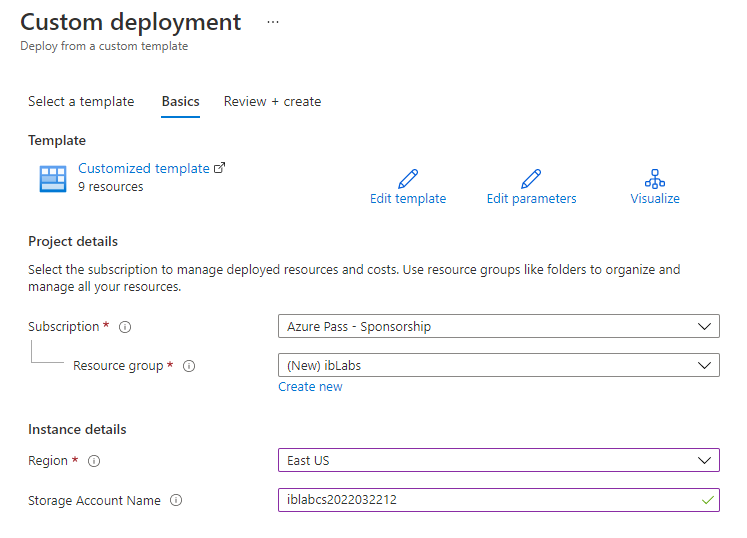
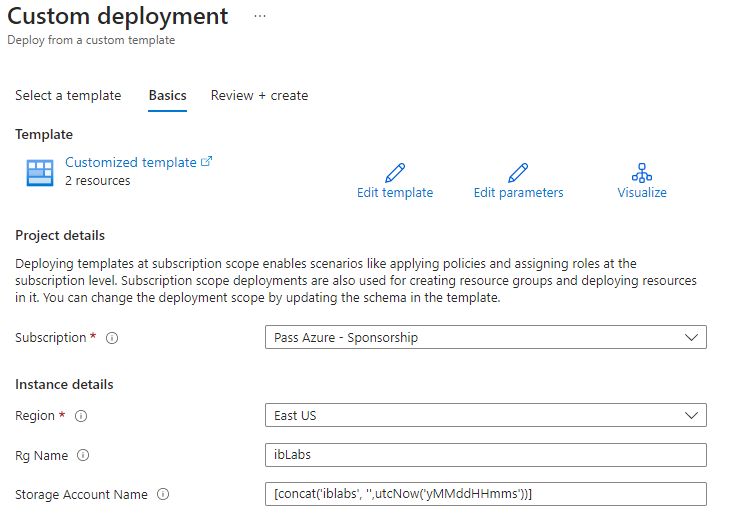
Changement  procdure lab ib Azure : le template fourni crée le Resource Group (permet de lui donner le nom "ibLabs" par défaut)

diff --git a/extra/ibAzureLabs.md b/extra/ibAzureLabs.md
@@ -29,18 +29,18 @@ Il sera donc plus efficace d'avoir votre portail Azure dans cette même langue a
 [(Retour au Sommaire)](#objectifs)  
 # Procédure 1: Créer quelques ressources génériques dans Azure
 1. Cliquez (préférez ouvrir dans un autre onglet pour ne pas quitter le présent document) directement sur le bouton ci-dessous afin d'initialiser le déploiement des ressources dans Azure :  
-[![Deployer Dans Azure](https://aka.ms/deploytoazurebutton)](https://portal.azure.com/#create/Microsoft.Template/uri/https%3A%2F%2Fraw.githubusercontent.com%2Frenaudwangler%2Fib%2Fmaster%2Fextra%2FarmTemplates%2FibAzureLabEnvironment.json)
+[![Deployer Dans Azure](https://aka.ms/deploytoazurebutton)](https://portal.azure.com/#create/Microsoft.Template/uri/https%3A%2F%2Fraw.githubusercontent.com%2Frenaudwangler%2Fib%2Fmaster%2Fextra%2FarmTemplates%2FibAzureLabEnvironmentRG.json)
 
 1. Ce bouton, ouvre votre portail Azure.  
 Si vous n'étiez pas encore connecté à votre compte Azure dans le navigateur Internet, procédez à la connexion.
 1. Saisissez les informations suivantes dans la page **Custom Deployment** :  
-   - **Subscription** : Sélectionnez votre abonnement Azure
-   - **Resource group** : Cliquer sur **Create new** puis choisissez un nom (*ibLabs* par exemple) et cliquez sur **OK**
-   - **Region** : Choisissez **East US** (ou tout autre région désignée par votre formateur/trice)
+   - **Subscription** : Sélectionnez votre abonnement Azure  
+   - **Region** : Choisissez **East US** (ou tout autre région désignée par votre formateur/trice)  
+   - **Rg Name** : Choisissez un nom pour le *Resource Group* dans lequel les resources seront déployées (*ibLabs* par exemple)  
    - **Storage Account Name** : Vous pouvez taper un nom mondialement unique. Si vous laissez la formule par défaut, un nom unique sera généré, basé sur la date et l'heure de création.   
      |:warning:| Ce nom ne doit être composé que de minuscules et de chiffres !|
      |-|:-|
-1. Cliquez en dehors du champ **Storage Account Name** pour vérifier que le nom choisi est unique et correct.  
+1. Si vous l'avez modifié, cliquez en dehors du champ **Storage Account Name** pour vérifier que le nom choisi est unique et correct.  
 
 ![Custom Deployment](images/customDeployment.png)  
 1. Cliquez sur **review + Create**
